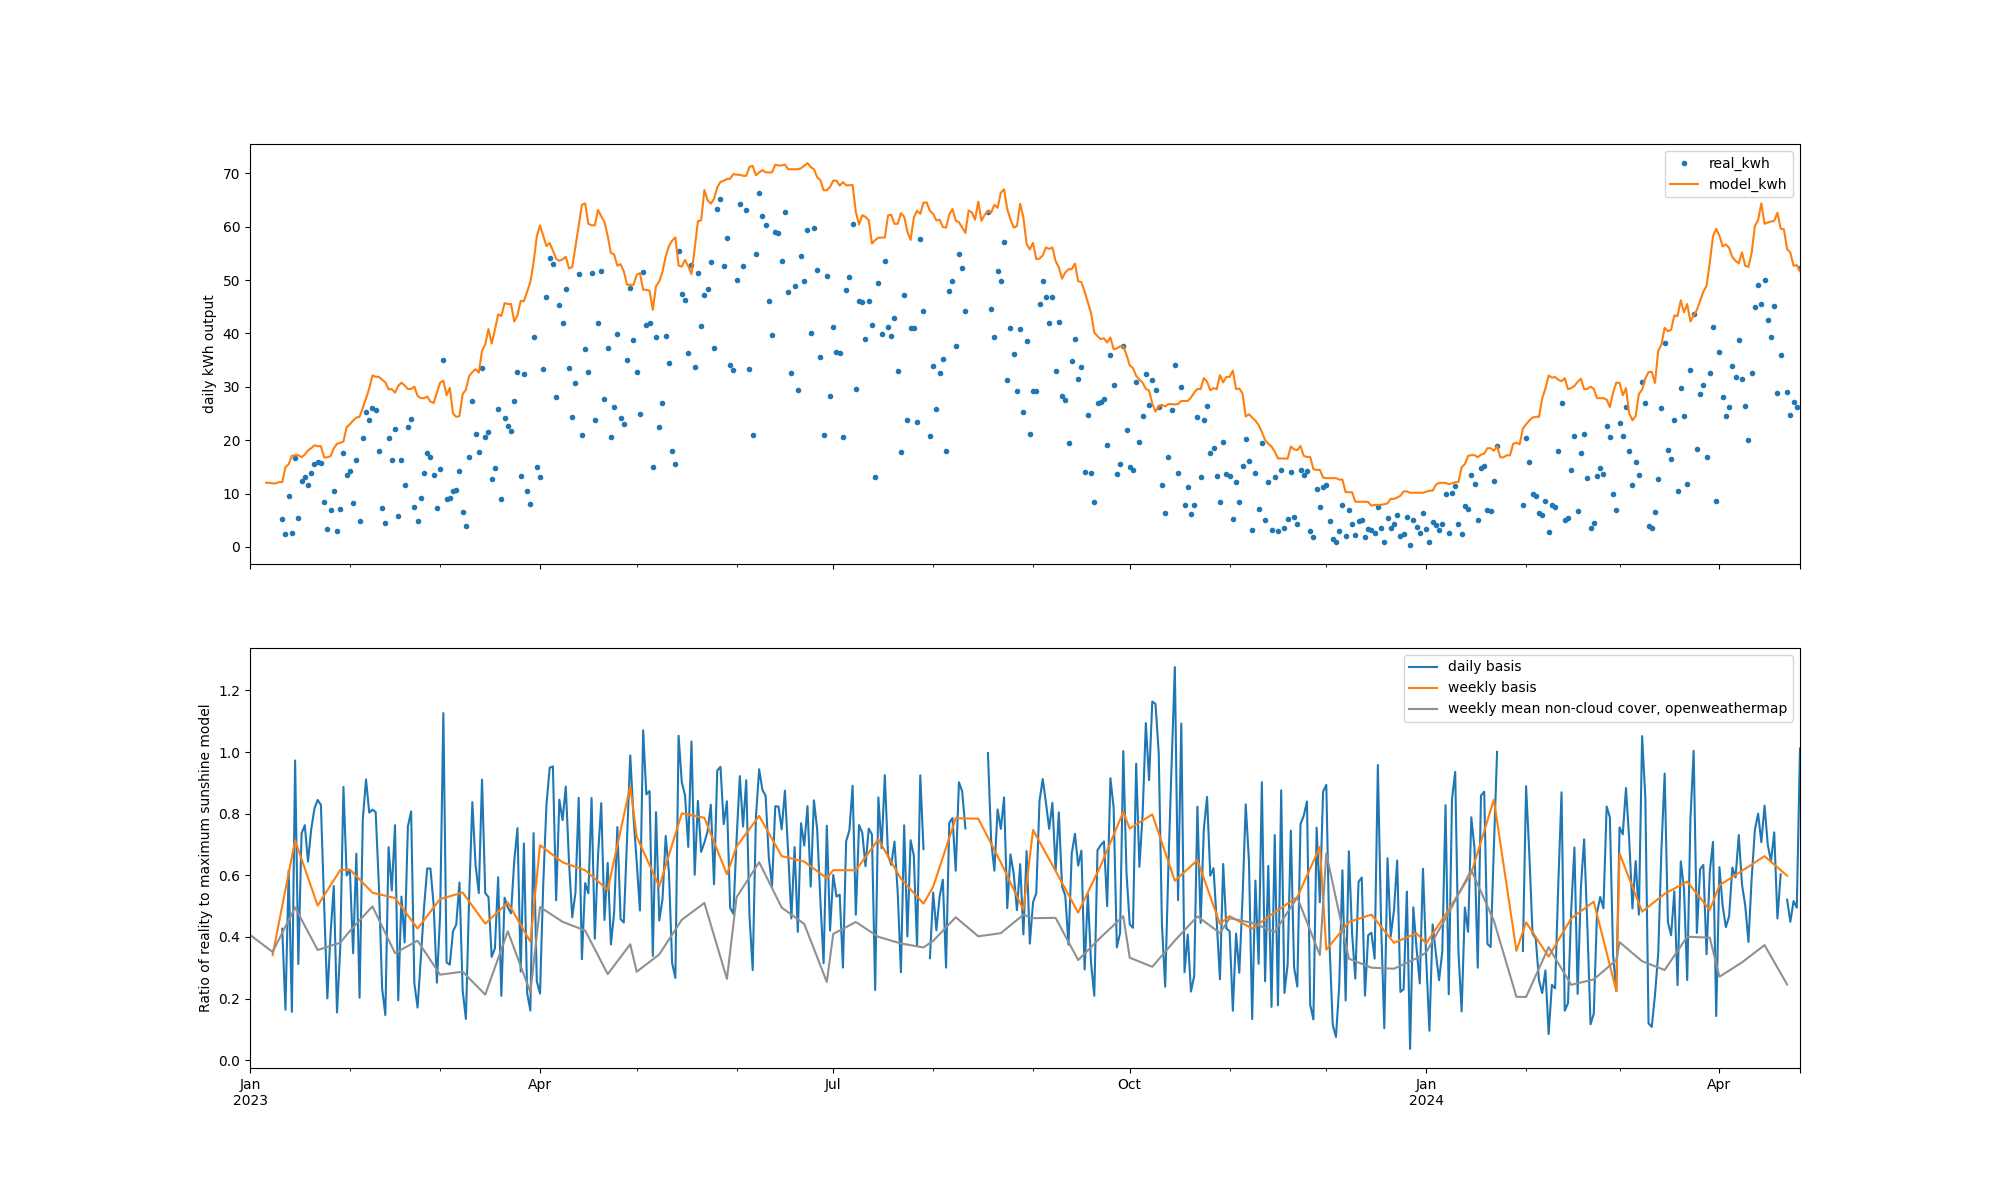
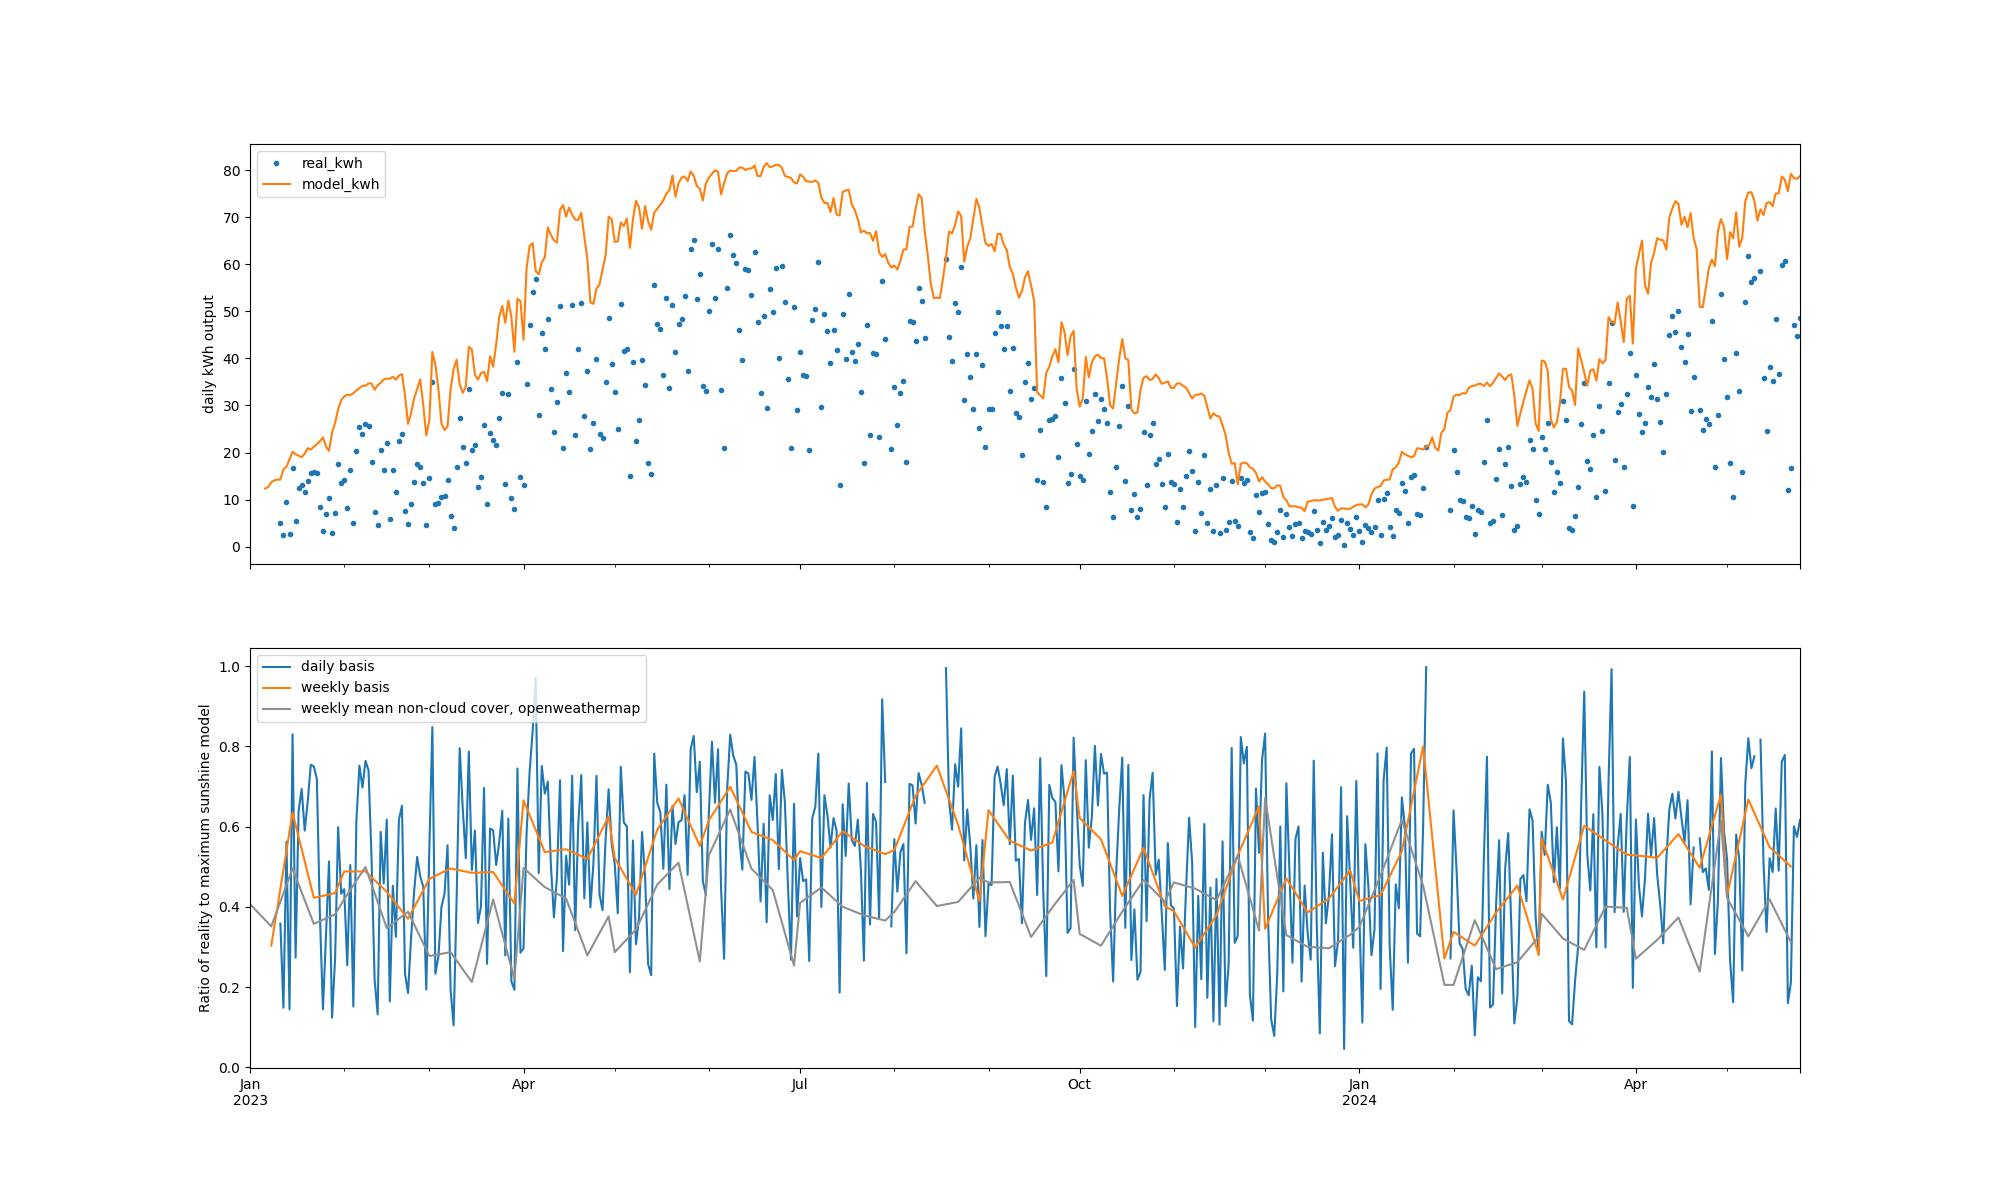
checkpoint

diff --git a/forecast.py b/forecast.py
@@ -21,7 +21,7 @@ plt.rcParams["figure.figsize"] = (20,12)
 RUN_ARCHIVE = []
 TIME_STRING_FORMAT = "%Y-%m-%dT%H:%M:%SZ"
 
-AZIMUTH_RESOLUTION = 3
+AZIMUTH_RESOLUTION = 1
 ALTITUDE_RESOLUTION = 1
 
 SITE = json.load(open(os.path.expanduser("~/src/powerwallextract/site.json")))
@@ -133,7 +133,10 @@ def memoize(filename, generate, max_age_days=0):
         if age.days < max_age_days:
             try:
                 with open(filename, "rb") as fp:
-                    return pickle.load(fp)
+                    
+                    data = pickle.load(fp)
+                    print('loaded cache' ,filename)
+                    return data
             except:
                 print(f"unable read {filename}; generating")
                 traceback.print_exc()
@@ -289,7 +292,7 @@ def generate_solar_model(verbose=True):
             print('overriden', t, 'usage', usage, 'by', overridden[t])
             return
         pos = get_solar_position_index(t)
-        if t in clear_skies:
+        if t in clear_skies or True:
             solar_pos_table.setdefault(pos, list())
             solar_pos_table[pos].append(max(0, usage))
             print('populate', repr(t), usage, 'actual=',actual)
@@ -321,38 +324,38 @@ def generate_solar_model(verbose=True):
             est_gen_hh_wh = 1000 * weightings_map[t] * generated_kwh_day / tot_weight
             populate(t, est_gen_hh_wh, actual=False)
             overridden[t] = ('day override', est_gen_hh_wh)
-    if 1:
-        prev = None
-        prevt = None
-        title("querying powerwall solar data")
-        for res in do_query(
-            """
-            |> filter(fn: (r) => r["_measurement"] == "energy")
-                |> filter(fn: (r) => r["_field"] == "energy_exported")
-                |> filter(fn: (r) => r["meter"] == "solar")
-                    |> window(every: 30m)
-                    |> last()
-                    |> duplicate(column: "_stop", as: "_time")
-                    |> window(every: inf) """,
-            "powerwall",
-            EPOCH,
-            tnow,
-        ):
-            t = res["_time"]
-            value = res["_value"]
+    prev = None
+    prevt = None
+    title("querying powerwall solar data")
+    for res in do_query(
+        """
+        |> filter(fn: (r) => r["_measurement"] == "energy")
+            |> filter(fn: (r) => r["_field"] == "energy_exported")
+            |> filter(fn: (r) => r["meter"] == "solar")
+                |> window(every: 30m)
+                |> last()
+                |> duplicate(column: "_stop", as: "_time")
+                |> window(every: inf) """,
+        "powerwall",
+        EPOCH,
+        tnow,
+    ):
+        t = res["_time"]
+        value = res["_value"]
 
-            if prevt:
-                deltat = t - prevt
-                if deltat.seconds == 1800:
-                    usage = value - prev
-                    print('powerwall solar', t, 'usage', usage)
-                    populate(t, usage)
-                else:
-                    print('powerwall solar', t, 'gap', deltat, 'ignored usage', usage)
-                    
-            prevt = t
-            prev = value
+        if prevt:
+            deltat = t - prevt
+            if deltat.seconds == 1800:
+                usage = value - prev
+                print('powerwall solar', t, 'usage', usage)
+                populate(t, usage)
+            else:
+                print('powerwall solar', t, 'gap', deltat, 'ignored usage', usage)
+                
+        prevt = t
+        prev = value
     title("querying vue data")
+    x = 0
     for res in do_query(
         """
             |> filter(fn: (r) => r["_field"] == "usage")
@@ -368,6 +371,7 @@ def generate_solar_model(verbose=True):
     ):
         print('vue solar', res['_time'], res['_value'])
         populate(res["_time"], -res["_value"] / 2)
+        x += 1
 
 
     title('filling model')
@@ -427,7 +431,6 @@ solar_model_table = solar_pos_model.items()
 if 0:
     title('solar_output_w')
     pprint.pprint(solar_output_w)
-
 
 usage_actual_text = data["usage_actual"]
 usage_actual = {
@@ -1282,6 +1285,19 @@ def plot_solar_production():
     fig = combined.plot(y='real_kwh', style='.')
     fig.set_ylabel('daily kWh solar production')
     fig.get_figure().savefig('solar_actual.png')
+
+    start = (datetime.datetime.utcnow() - datetime.timedelta(days=365)).replace(tzinfo=datetime.timezone.utc)
+    print(start)
+    total_wh = 0
+    for i, row in combined.iterrows():
+        iu = i.replace(tzinfo=datetime.timezone.utc)
+        if iu > start:
+            p = row['real']
+            if math.isnan(row['real']):
+                p = row['model']*0.6
+            print(i, p)
+            total_wh += p
+    print(f'MWh in the last year ={total_wh / 1e6}')
 
 
 plot_solar_production()

diff --git a/README.md b/README.md
@@ -17,35 +17,42 @@ energy, down to at least 30 minute resolution.
 
 There are a number of data sources we can use:
 
-1. The electricity company meter (UK SMETS2 in my case) which produces a 30 minute time series.
-2. Solar inverter monitoring (e.g. SolarEdge monitoring, 15 minute resolution)
-3. Clamp transformer current monitoring (Vue Emporia, 5 second resolution)
-4. Battery system monitoring (e.g. Tesla Gateway for me, 3 second resolution)
-5. Weather data.
+1. The electricity company meter (UK SMETS2 in my case cloud polling) which produces a 30 minute time series.
+2. Solar inverter monitoring (SolarEdge monitoring cloud polling, 15 minute resolution)
+3. Clamp transformer current monitoring (Vue Emporia cloud polling, 5 second resolution)
+4. Battery system monitoring (Tesla Gateway local network access, 3 second resolution)
+5. Weather data. (openweathermap.org cloud polling via Home Assistant. Alternatively I could have installed my own weather sensors but I don’t see the point when high quality reasonably local data is reliably available for free)
 
-Couting up the output for each day using by clamp transformer monitoring and, when I got it, the battery system monitoring, we have:
+Counting up the output for each day using by Emporia clamp transformer monitoring and, later via Tesla system monitoring, we have:
 
 ![solar actual](solar_actual.png).
 
+So we see the expected seasonal trend, with peaks over 60kWh per day in the summer. We also see a lot of days that fall short; it has been very cloudy and wet in the period, perhaps more than the expected level for eastern England.
 
-Aggregating into 30 minute buckets and showing time of day on the Y axis, we have:
+If we count up in 30 minute buckets and plot with time of day on the Y axis, and use colour for the amount of electricity in the 30 minute bucket for that day we have:
 
 
 ![time series](solartimes.png)
 
-The structure becomes more self evident.
+In this form you can see that most of my peak generation is afternoon, which makes sense for an east-south-east facing array. We can also see that some days are better than others.
 
-I then work out the peak solar output we've seen in a 30 minute period for solar azimuth and elevation, and fill in gaps using the nearest point we have:
+I was curious about the best power level I've seen, for each position of the sun. So I examine time in half hour buckets for various sun position (solar azimuth and elevation), take the maximum and use an algorithm to use the nearest value when no data is recorded.
 
 ![solar model](solarmodel.png)
 
-My solar panels are on a roof facing east south east, and the treeline is fairly high in my area. Other system will get very different fingerprints.
+My solar panels are on a roof facing east south east, and the treeline is fairly high in my area. That may well mean that in some sun positions the panels are in snadow, which would account for some of the readings. Or it may be that we've never had clear skies in the first 15 months of operations with the sun in a certain position. So, I expect when rerunning this code later to get a few new record power levels which will fill out the plot. Other system swill get very different fingerprints. 
 
-So that's the maximum. Since I installed the system there's been a lot of cloud. We can compare what we would get by integrating the azium/elevation chart against the
-sun positions for a day, which gives us a maximum. This can be integrated for a given day to give an approximate upper bound on what we'd get if we have clear skies all day.
-This can then be plotted against the output, and bucketted to the week, to give:
+So, now I have some idea of the maximum for differnet sun positions, and this allows me to work out the maximum if the skies were clear on a daily absis. 
 
-![dialysolar](dailysolar.png)
+Since I installed the system there's been a lot of cloud. We can compare what we would get by integrating the azium/elevation chart against the
+sun positions for a day, which gives us a maximum. This can be integrated for a given day to give an approximate upper bound on what we'd get if we have clear skies all day. This maximum for each day according to our maximums for solar position can be plotted against time and overlaid the actual output. I also bucket to the week, and include the weekly mean cloud cover (taken as percentage of time with no cloud cover).
+
+![dailysolar](dailysolar.png)
+
+The line on the top graph is closer to sinusoid now, and I expect repeating this in a few years will show a smoother sinusoid. You can also see we've consistenly had a lot of cloud.
+Over the life of the system, for me the actual output is 60% of what we get on a clear day.
+
+Using the model to fill in some gaps in the monitoring, I have 9.38MWh in the 365 days up to 25 April 2024. In comparison, the SolarEdge design tool gave an output of 10.9MWh on an average year. That seemms within range given the famous unpredictability of British weather; it will be interesting once I have multiple years of data to see how this tracks.
 
 # Step 2 - Energy demand modelling
 
